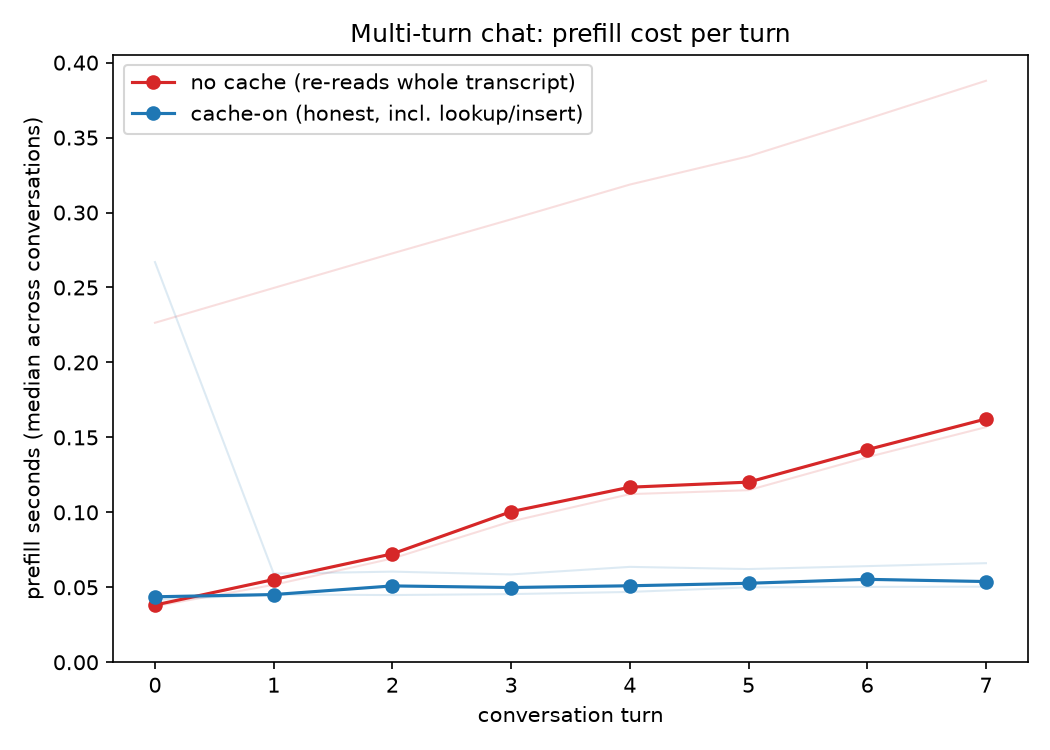
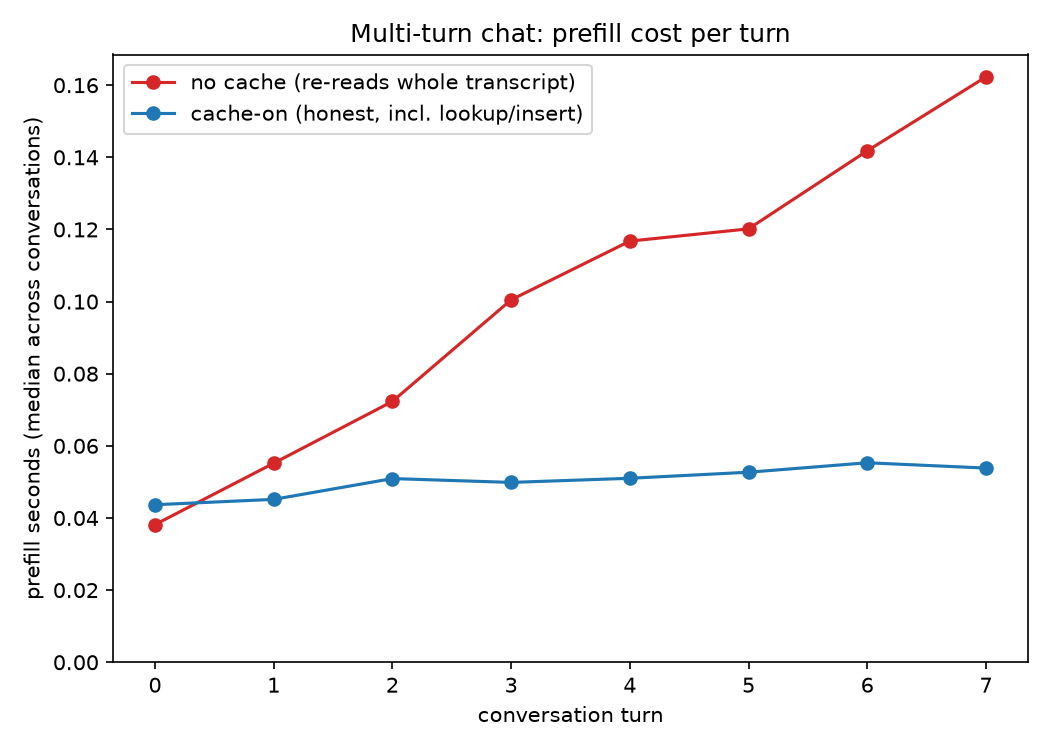
bench: drop faint per-conversation lines from multiturn prefill chart
They read as blur behind the median lines, and the long-system conversation's
line looked like an outlier streak rather than a third series. Keep just the
two median lines.

diff --git a/scripts/plot_multiturn.py b/scripts/plot_multiturn.py
@@ -30,16 +30,6 @@ def _chart_prefill_by_turn(data: dict) -> None:
     cache_on = [r["honest_prefill_seconds"] for r in aggregate]
 
     fig, ax = plt.subplots(figsize=(7, 5))
-
-    # Faint per-conversation lines behind the aggregate.
-    for conv in data["conversations"].values():
-        rows = conv["rows"]
-        xs = [r["turn_index"] for r in rows]
-        ax.plot(xs, [r["baseline_prefill_seconds"] for r in rows],
-                color="tab:red", alpha=0.15, linewidth=1)
-        ax.plot(xs, [r["honest_prefill_seconds"] for r in rows],
-                color="tab:blue", alpha=0.15, linewidth=1)
-
     ax.plot(turns, no_cache, "o-", color="tab:red", label="no cache (re-reads whole transcript)")
     ax.plot(turns, cache_on, "o-", color="tab:blue", label="cache-on (honest, incl. lookup/insert)")
     ax.set_xlabel("conversation turn")
